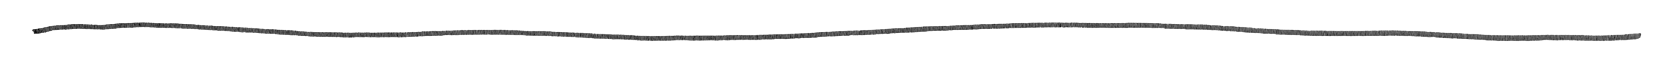
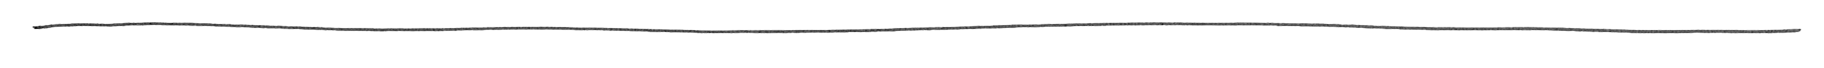
add doodles

Changed region(s): [[0.0, 0.3235, 0.9964, 0.6176]]

diff --git a/participate.html b/participate.html
@@ -19,14 +19,22 @@
             <img style="width: 7%;" class="headerLink" onclick="location.href = 'blog.html';"src="assets/blog-icon.png">
         </div>
 
-    <img style="margin-top:5vh;" src="assets/lines1.png">
+    <img style="width:20%;display:block;margin-left:auto;margin-right:auto;margin-top:7%;" src="assets/heart_header.png">
+
+    <!-- doodles in the sidebars -->
+    <img style="position:absolute;width:3%;top:100%;left:3%;" src="assets/spiral4.png">
+    <img style="position:absolute;width:3%;top:150%;right:8%;" src="assets/star5.png">
+    <img style="position:absolute;width:2%;top:160%;right:7%;" src="assets/dots13.png">
+    <img style="position:absolute;width:1%;top:260%;left:12%;" src="assets/dots9.png">
+    <img style="position:absolute;width:3%;top:270%;left:3%;" src="assets/dots14.png">
+    <img style="position:absolute;width:2%;top:350%;right:10%;" src="assets/spiral6.png">
 
     <div id="contentBg">
     <h1>WANT TO GET INVOLVED?</h1>
 
     <p id="subtitle">Lorem ipsum dolor sit amet consectetur adipiscing elit. Quisque faucibus ex sapien vitae pellentesque sem placerat. In id cursus mi pretium tellus duis convallis. Tempus leo eu aenean sed diam urna tempor. Pulvinar vivamus fringilla lacus nec metus bibendum egestas. Iaculis massa nisl malesuada lacinia integer nunc posuere. Ut hendrerit semper vel class aptent taciti sociosqu. Ad litora torquent per conubia nostra inceptos himenaeos.</p>
 
-    <iframe id="googleForm" src="https://docs.google.com/forms/d/e/1FAIpQLSfhpVw8rFtHnEV-8zNzwG4etBHCieG2fwSrJ1PBew1t6yoOYQ/viewform?embedded=true" height="3300" frameborder="0" >Loading…</iframe>
+    <iframe id="googleForm" src="https://docs.google.com/forms/d/e/1FAIpQLSfhpVw8rFtHnEV-8zNzwG4etBHCieG2fwSrJ1PBew1t6yoOYQ/viewform?embedded=true" height="3300" frameborder="0">Loading…</iframe>
     </div>
 
 </body>

diff --git a/blog.html b/blog.html
@@ -24,6 +24,16 @@
         <!-- doodles in the sidebars -->
         <img style="position:absolute;height:70%;left:17%;top:24%;" src="assets/squiggle1.png">
         <img style="position:absolute;height:70%;right:17%;top:24%;" src="assets/squiggle2.png">
+        <img style="position:absolute;width:3%;top:28%;left:3%;" src="assets/spiral8.png">
+        <img style="position:absolute;width:3%;top:50%;left:10%;" src="assets/star2.png">
+        <img style="position:absolute;width:1.5%;top:70%;left:3%;" src="assets/heart2.png">
+        <img style="position:absolute;width:2%;top:80%;left:5%;" src="assets/heart1.png">
+        <img style="position:absolute;width:3%;top:20%;right:3%;" src="assets/star4.png">
+        <img style="position:absolute;width:2%;top:28%;right:7%;" src="assets/spiral3.png">
+        <img style="position:absolute;width:1%;top:42%;right:13%;" src="assets/dots12.png">
+        <img style="position:absolute;width:4%;top:79%;right:9%;" src="assets/spiral5.png">
+        <img style="position:absolute;width:2%;top:90%;right:5%;" src="assets/dots13.png">
+        <img style="position:absolute;width:1%;top:82%;left:14%;transform:rotate(180deg);" src="assets/dots2.png">
 
 
     

diff --git a/style.css b/style.css
@@ -321,6 +321,11 @@ html, body {
 
 /* PARTICIPATE PAGE */
 
+#participatePage .horizontalContainer {
+    align-items: flex-start;
+    gap: 3%;
+}
+
 #contentBg {
     background-color: rgb(255, 211, 218);
     width: 60%;
